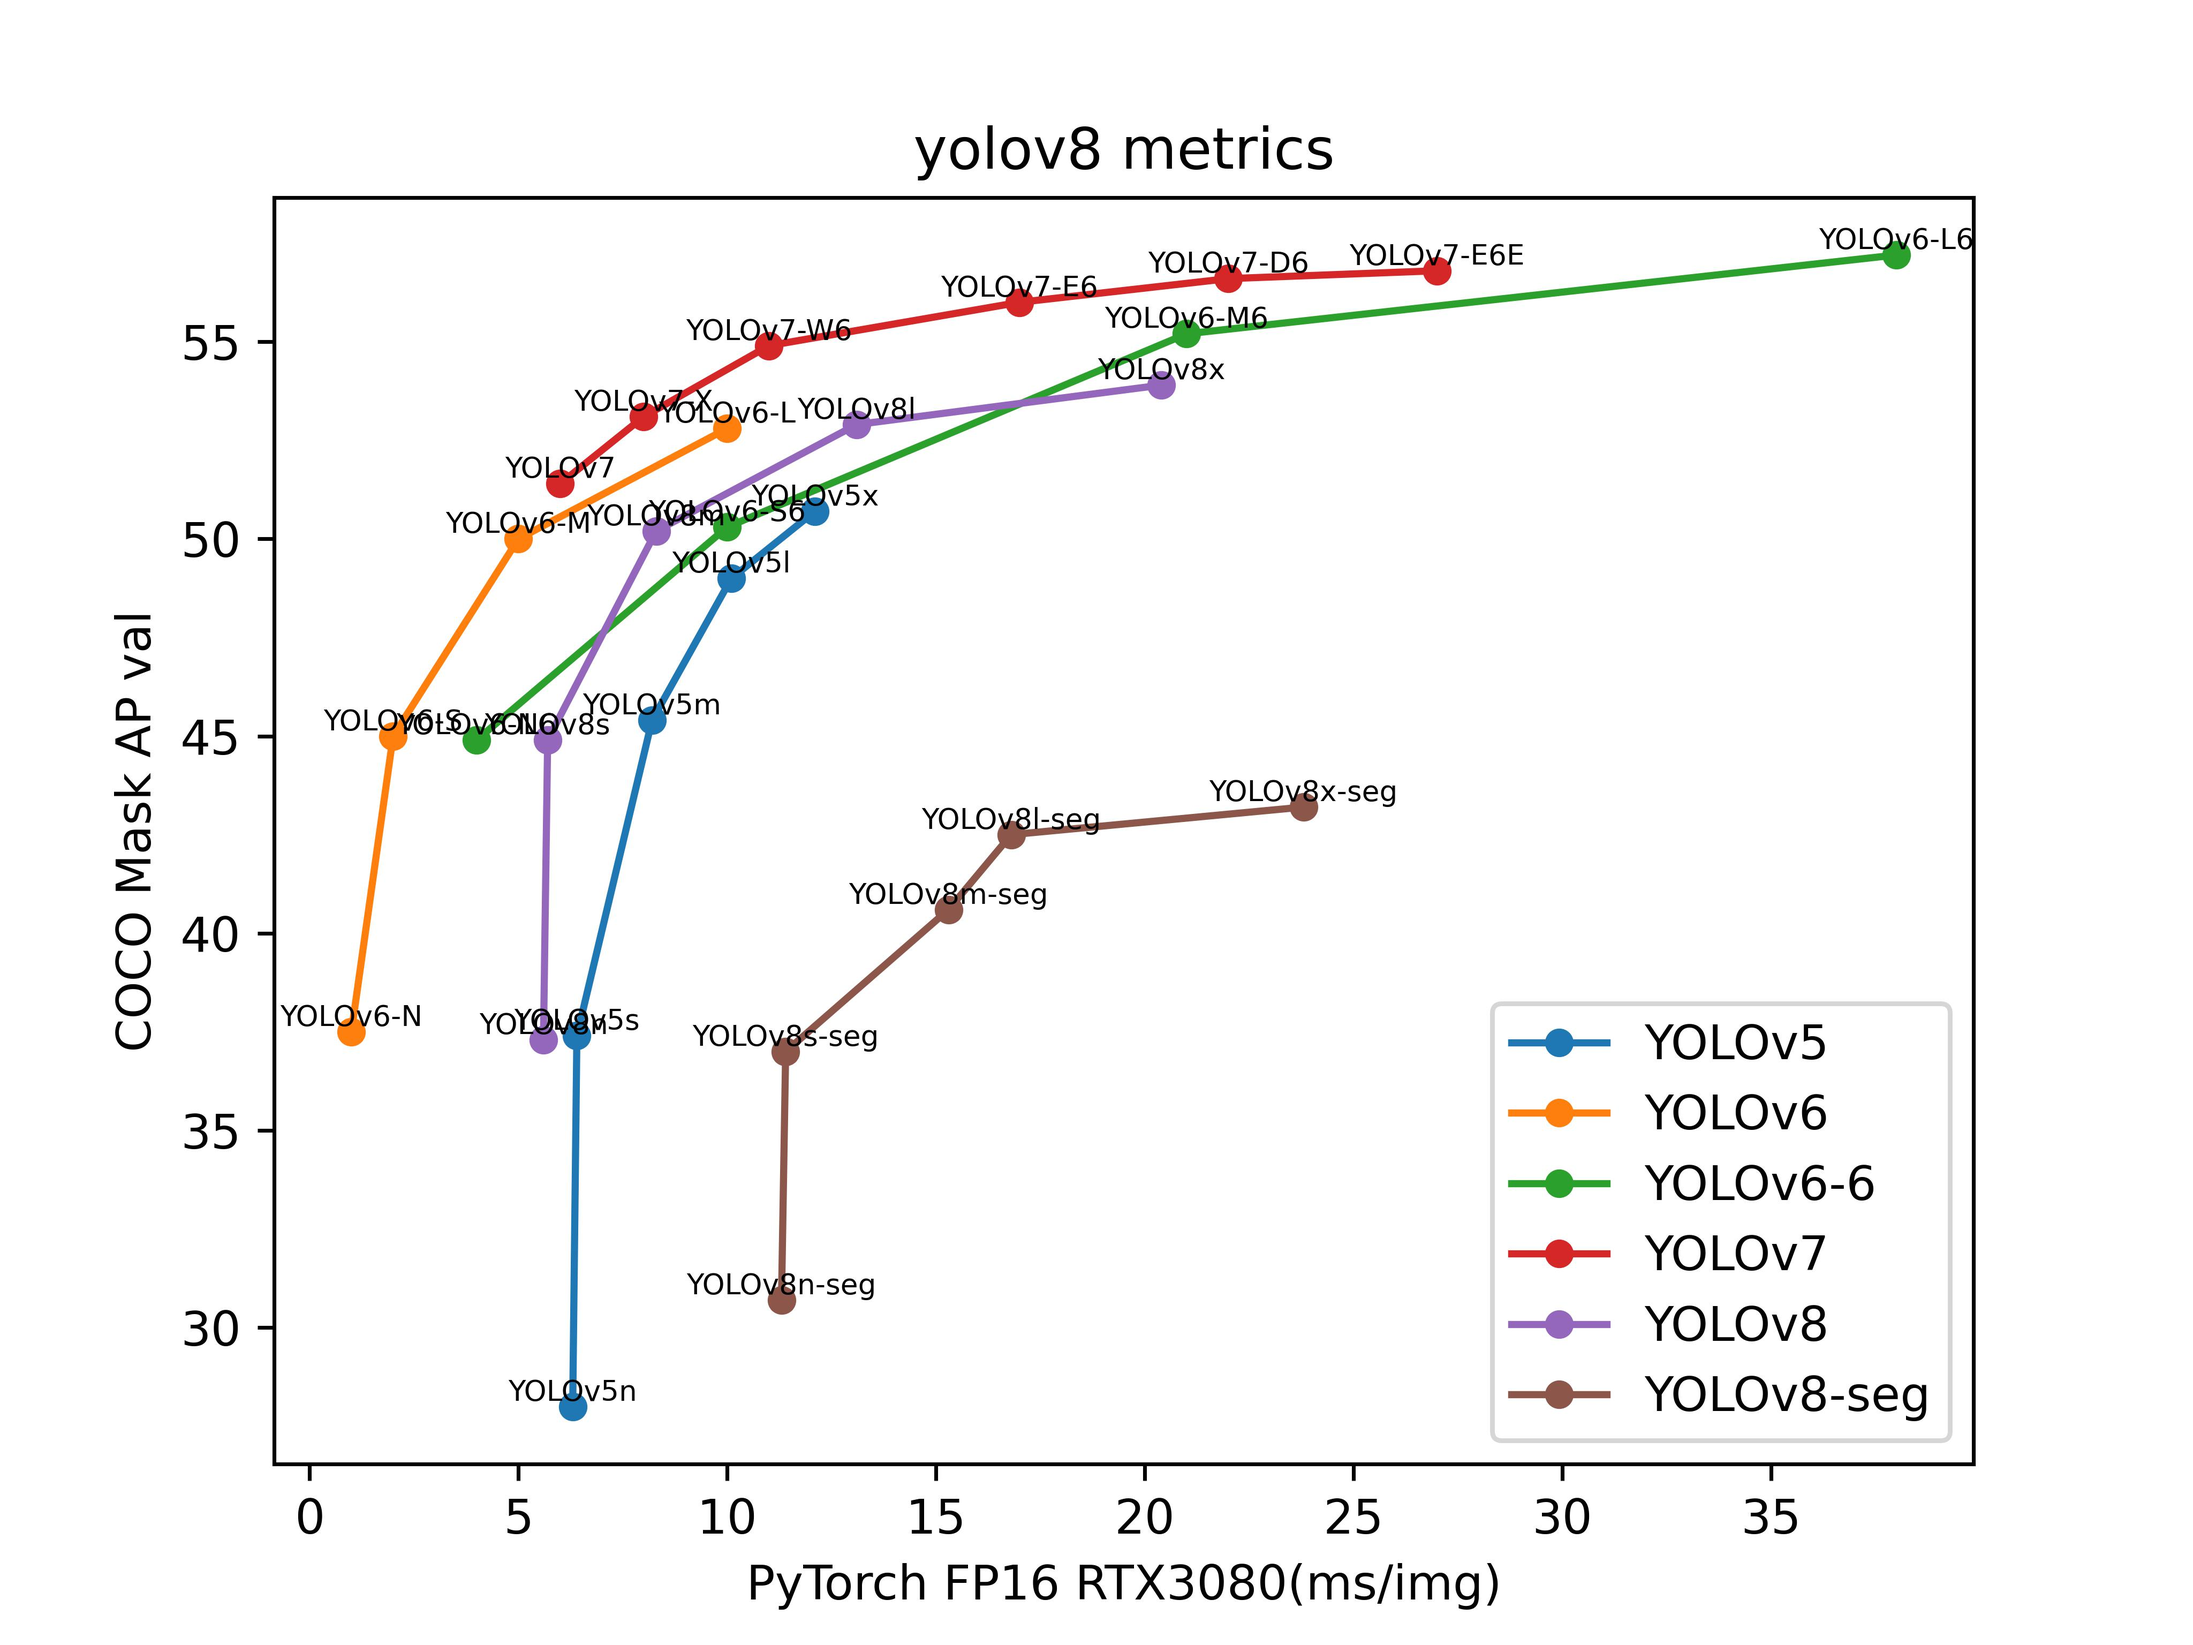
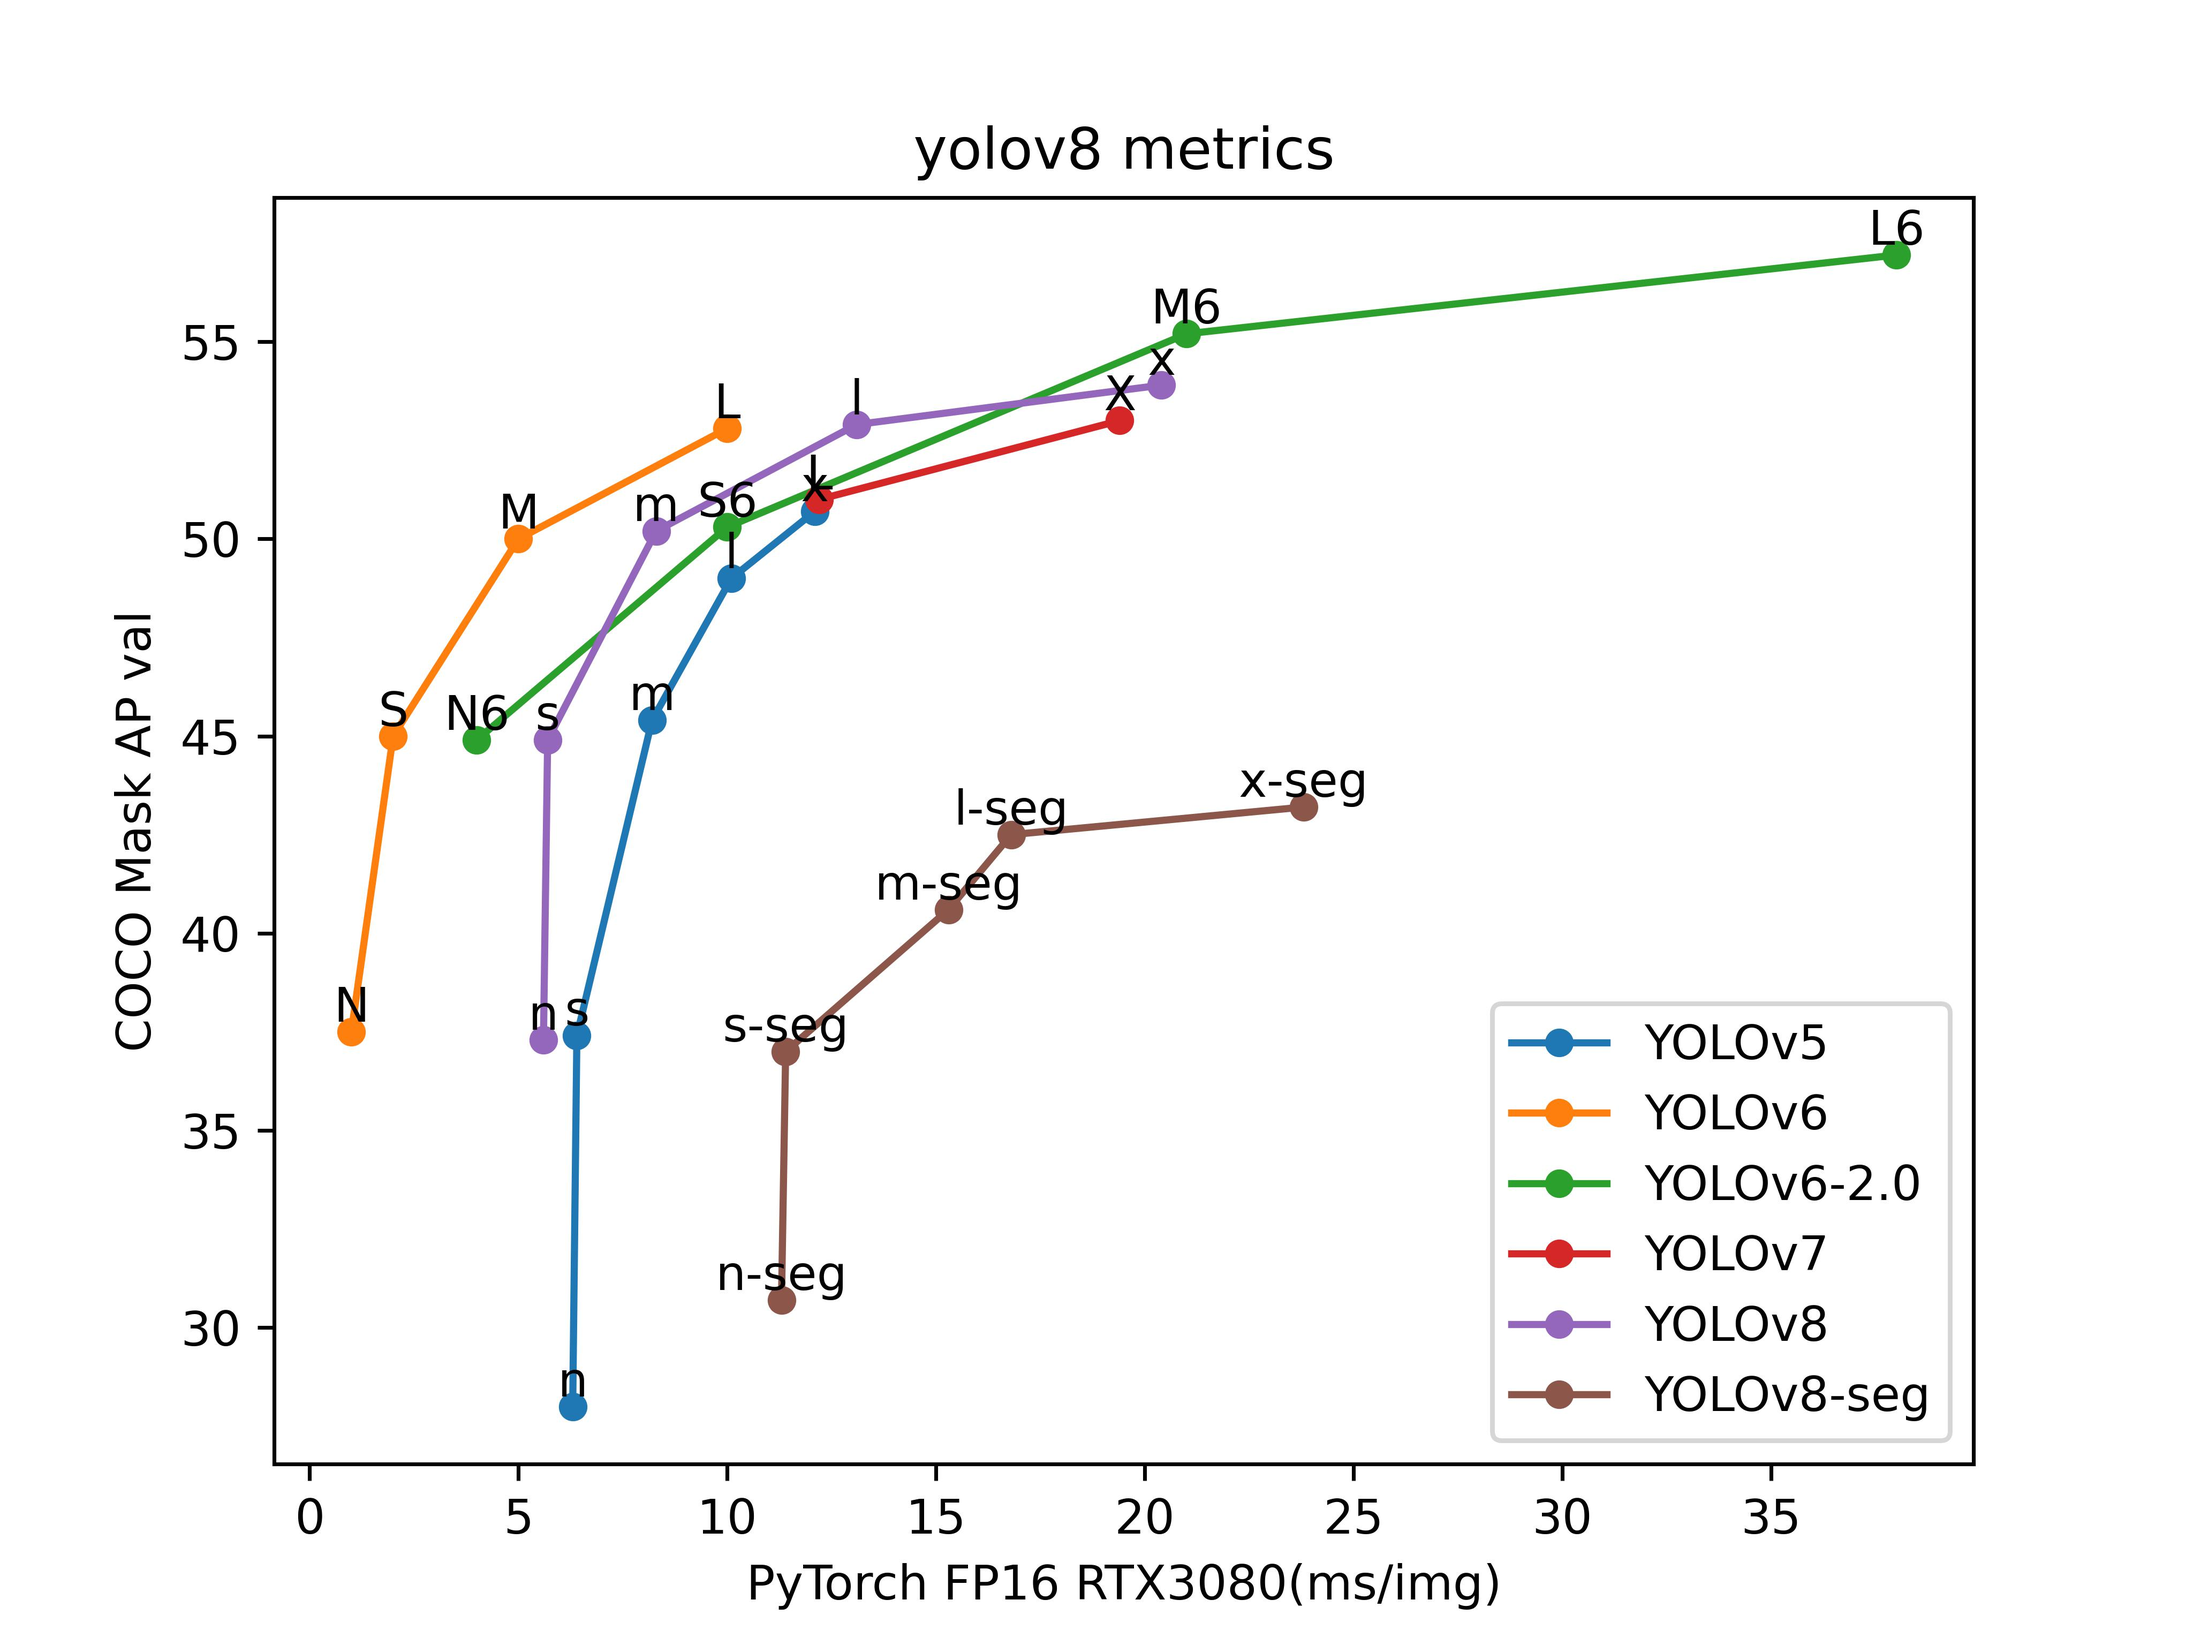
1.update metrics_plots.py and plot_metrics.jpg

diff --git a/utils/metrics_plots.py b/utils/metrics_plots.py
@@ -28,7 +28,7 @@ def fps_to_ms(fps: int) -> int:
 def plot_metrics(df,fig_name):
     model_list = df['model'].unique()
     # print('model_list:',model_list)
-    font_size = 5
+    font_size = 10
 
     for i in range(0, len(model_list)):
         label_list = df[df['model'] == model_list[i]]['branch'].tolist()
